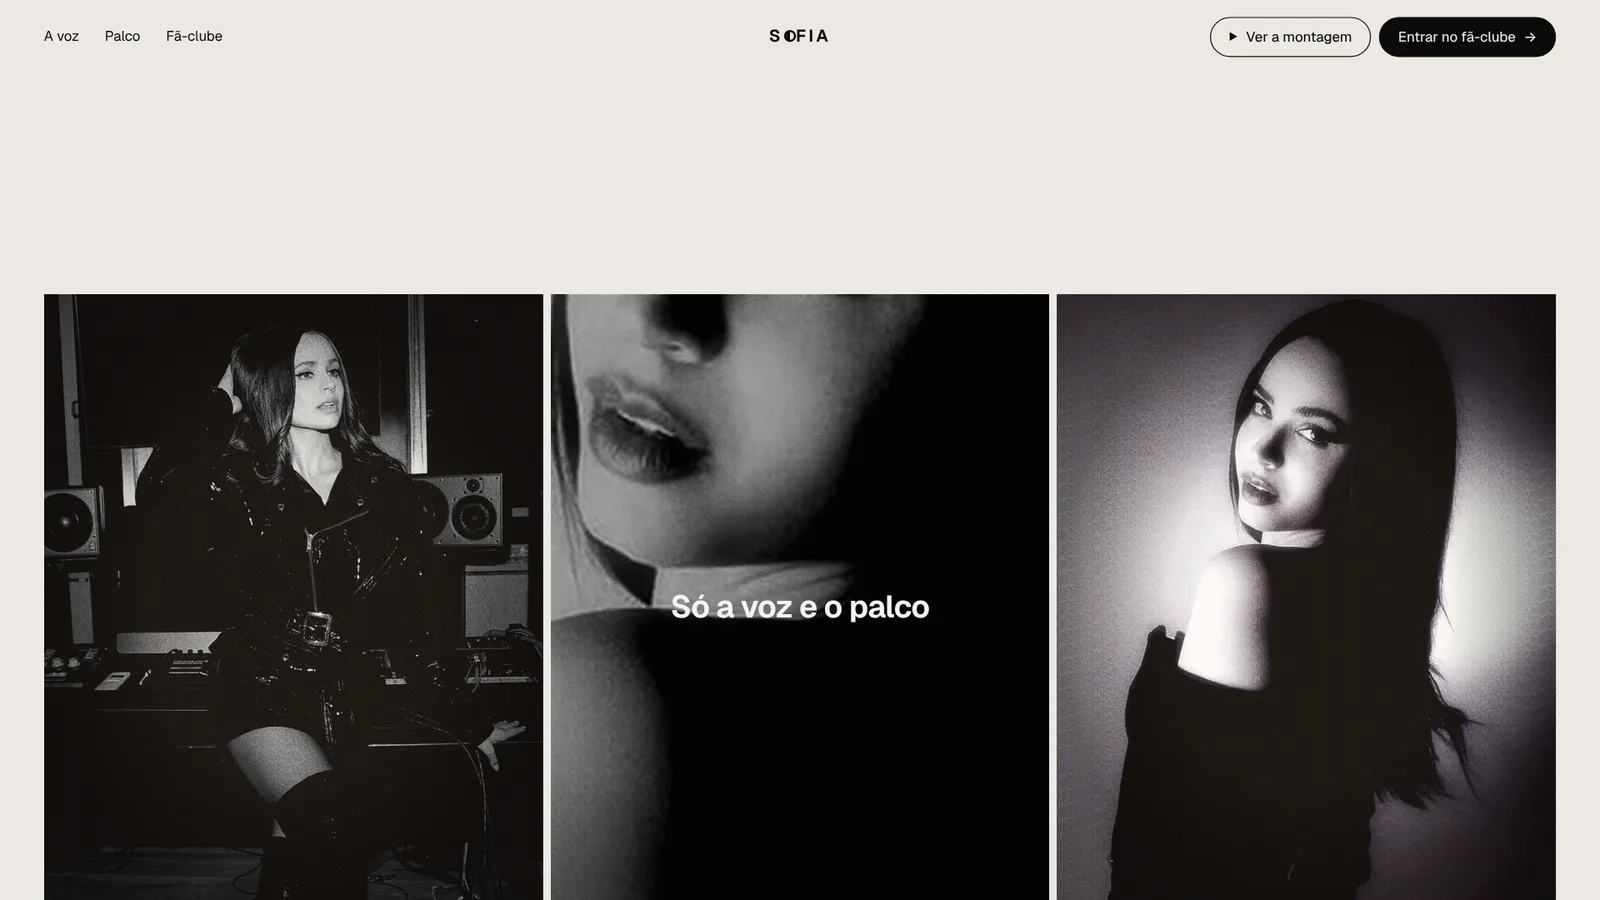
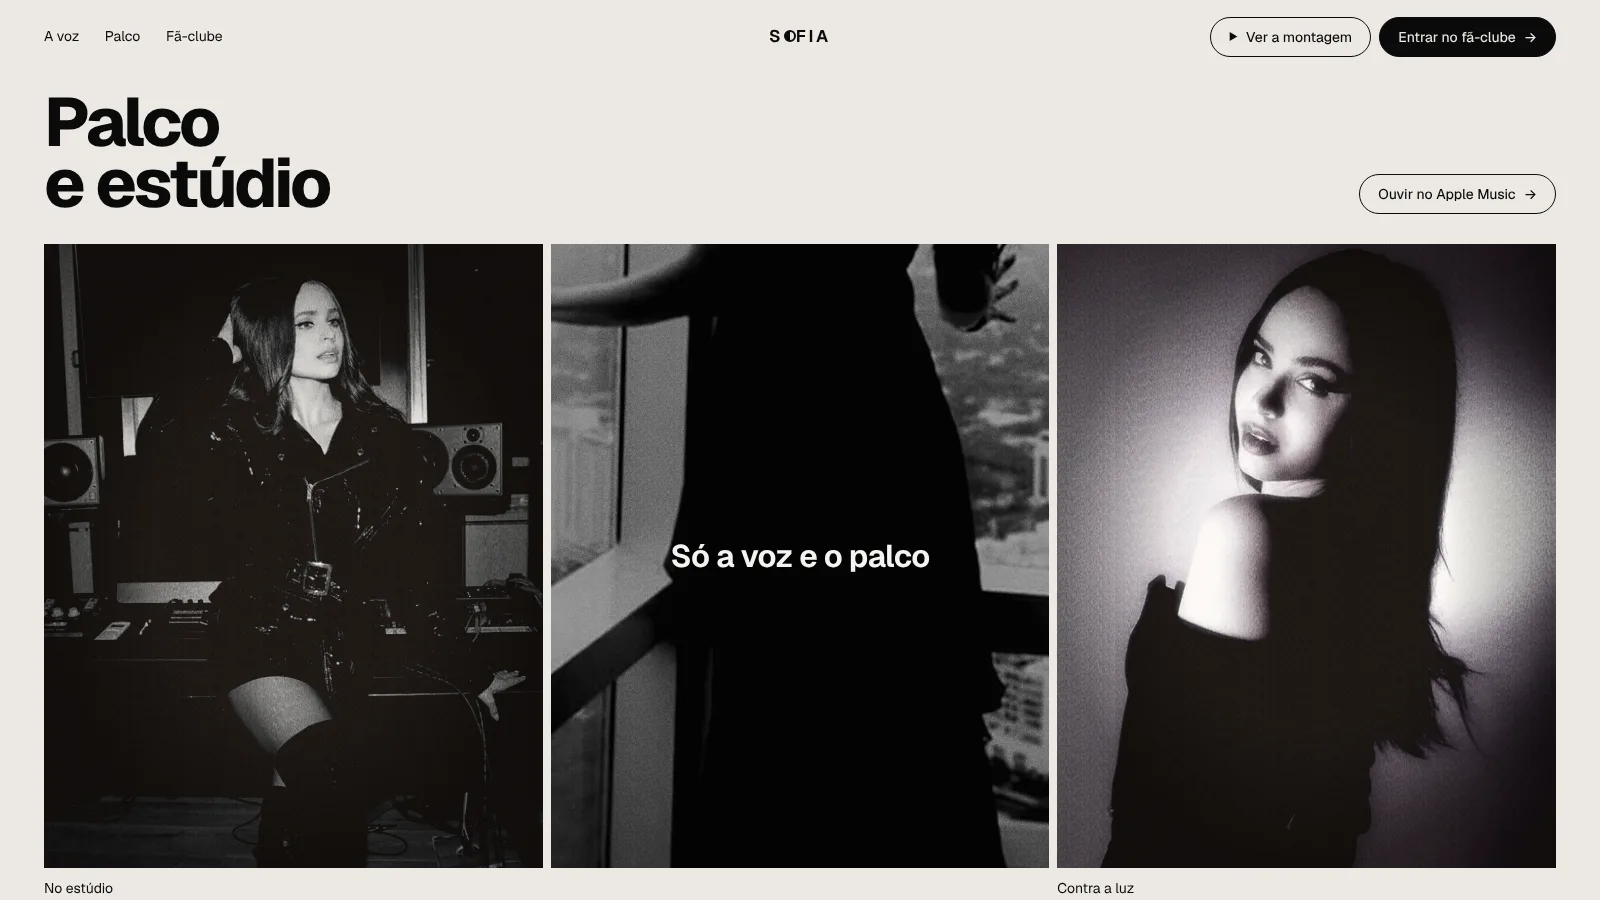
Sofia Carson · a voz: texto de volta acima dos furos (#22)
* Adiciona a skill jogos (orquestrador de desenvolvimento de jogos em português)

Skill enviada pelo usuário: orquestrador com 10 sub-skills (2D, 3D, arte,
áudio, game design, celular, multiplayer, PC, VR/AR e web).

Claude-Session: https://claude.ai/code/session_019iSoy3wHFP7Tyx1L48C8VG

* Unifica a skill Direção de Arte (pt-BR) com o design-skills

A skill enviada é a tradução para o português do taste-skill, que já estava
no pacote. Scripts, biblioteca e assets são idênticos, então a versão em
português entra na mesma pasta, sem duplicar os 2,3 MB:
- skills/taste-skill/SKILL.pt-BR.md (name: direcao-de-arte)
- skills/taste-skill/references/pt-BR/ (11 referências traduzidas)
- README.pt-BR.md e LICENSE (MIT)
Os caminhos das referências foram ajustados para references/pt-BR/, e o
índice do design-skills ganhou a entrada direcao-de-arte (138 sub-skills).

Claude-Session: https://claude.ai/code/session_019iSoy3wHFP7Tyx1L48C8VG

* Junta a skill seo-google ao design-skills

Skill enviada pelo usuário (SEO em português) entra como sub-skill
skills/seo-google, com seção própria no índice (139 sub-skills).
Atualiza os Core Web Vitals: o INP substituiu o FID em março de 2024.

Claude-Session: https://claude.ai/code/session_019iSoy3wHFP7Tyx1L48C8VG

* Substitui o design-skills pela versão nova enviada

A versão nova acrescenta a sub-skill figma-design-workflow (fluxo de design
no Figma com o Claude Code e o Figma MCP) e atualiza o índice para 140
[…]

diff --git a/Projetos/Sofia-Carson/src/motion/nav.js b/Projetos/Sofia-Carson/src/motion/nav.js
@@ -6,8 +6,8 @@ export function nav() {
   const el = document.querySelector('[data-nav]');
   const folha = document.querySelector('.folha');
   const aberturas = [...document.querySelectorAll('[data-aberta]')];
-  // texto das aberturas (sem a faixa de osso): some por marco ao chegar na altura da nav, volta ao descer
-  const sob = [...document.querySelectorAll('[data-aberta] h2, [data-aberta] li')];
+  // texto das aberturas e os cantos do hero (sem a faixa de osso): some por marco ao chegar na altura da nav, volta ao descer
+  const sob = [...document.querySelectorAll('[data-aberta] h2, [data-aberta] li, .hero__canto, .hero__reel')];
   let agora = null;
   const confere = () => {
     const meio = el.offsetHeight / 2;

diff --git a/Projetos/Sofia-Carson/src/sections/folha.css b/Projetos/Sofia-Carson/src/sections/folha.css
@@ -1,4 +1,5 @@
 /* A folha cor de osso: cada seção é transparente e tem um furo; a sombra do furo pinta o resto de osso. */
 .folha > section { position: relative; overflow: hidden; isolation: isolate; }
 .furo { position: relative; z-index: 0; box-shadow: 0 0 0 300vmax var(--osso); }
-.folha > section > *:not(.furo), .folha .nota, .folha .filme, .folha .filmes__furo p { position: relative; z-index: 1; }
+/* Os contêineres que guardam o furo (janela e grade) ficam sem z-index: senão a sombra do furo cobre o texto que vem antes. */
+.folha > section > *:not(.furo):not(.manifesto__janela):not(.filmes__grade), .folha .nota, .folha .filme, .folha .filmes__furo p { position: relative; z-index: 1; }

diff --git a/Projetos/Sofia-Carson/src/sections/hero.css b/Projetos/Sofia-Carson/src/sections/hero.css
@@ -14,3 +14,4 @@ html.is-pronto .hero__canto, html.is-pronto .hero__reel { opacity: 1; }
 @media (max-width: 1100px) {
   .hero__reel { display: block; position: absolute; left: 50%; top: calc(50% + .7 * var(--f-marca)); transform: translateX(-50%); opacity: 0; transition: opacity 1s var(--entra) .8s; color: var(--luz); }
 }
+.hero .is-sob { opacity: 0 !important; transition: opacity .3s linear !important; }
